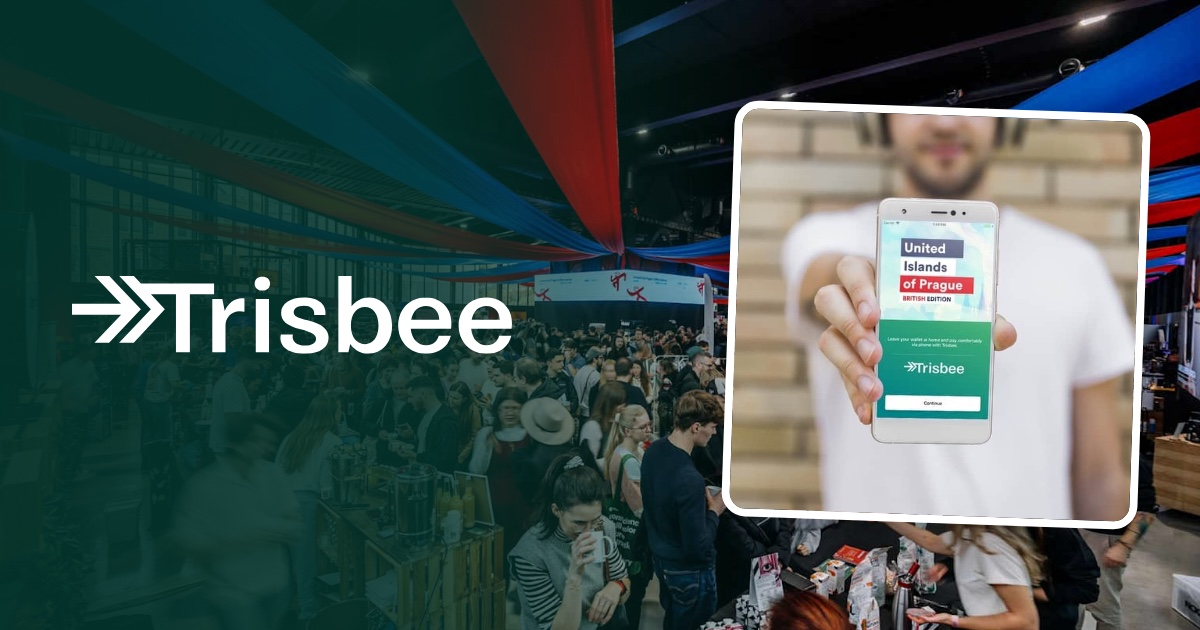
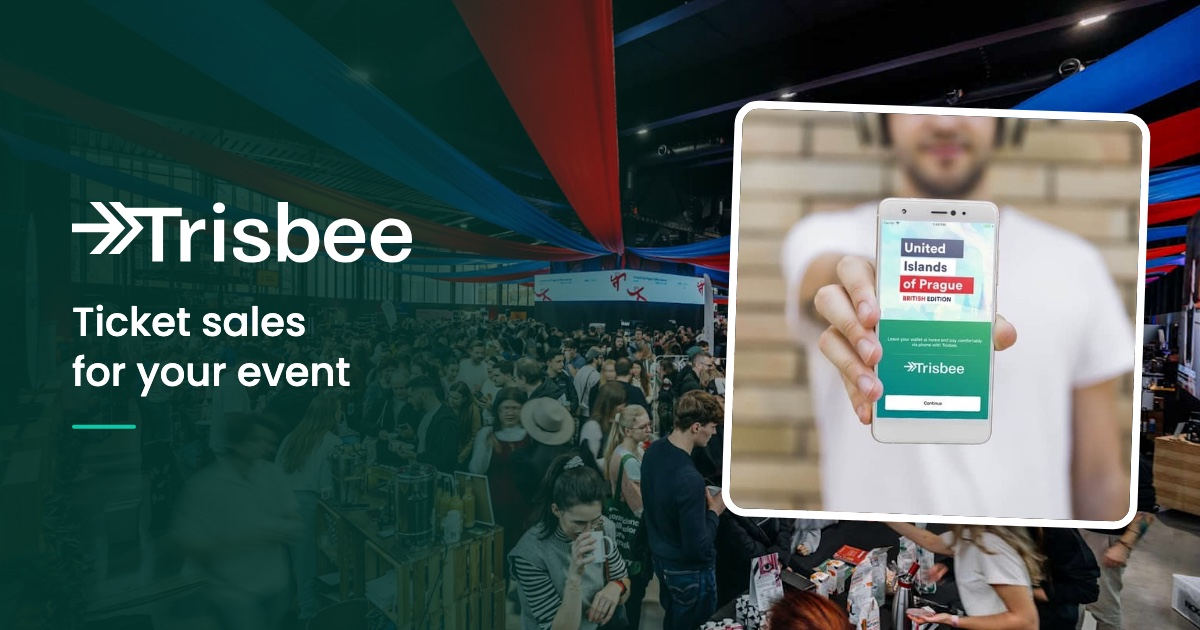
fe(insuit): use the ticket sales card for trisbee events ticketing

Changed region(s): [[0.0617, 0.3016, 0.4317, 0.6333], [0.0617, 0.6635, 0.1233, 0.6937]]

diff --git a/insuit/site/cv.md b/insuit/site/cv.md
@@ -195,7 +195,7 @@ service's relaunch.
 
 [boomevents.org](https://boomevents.org/en/)
 
-![Trisbee at a crowded festival, a phone showing the United Islands of Prague ticket screen](/assets/cv/trisbee-tickets.jpg)
+![Trisbee, ticket sales for your event: a crowded festival and a phone showing the United Islands of Prague ticket screen](/assets/cv/trisbee-tickets.jpg)
 
 A ticketing product for event organisers, launched as a pilot MVP. Around 150
 events ran on the platform, with QR-code tickets checked through a native mobile
